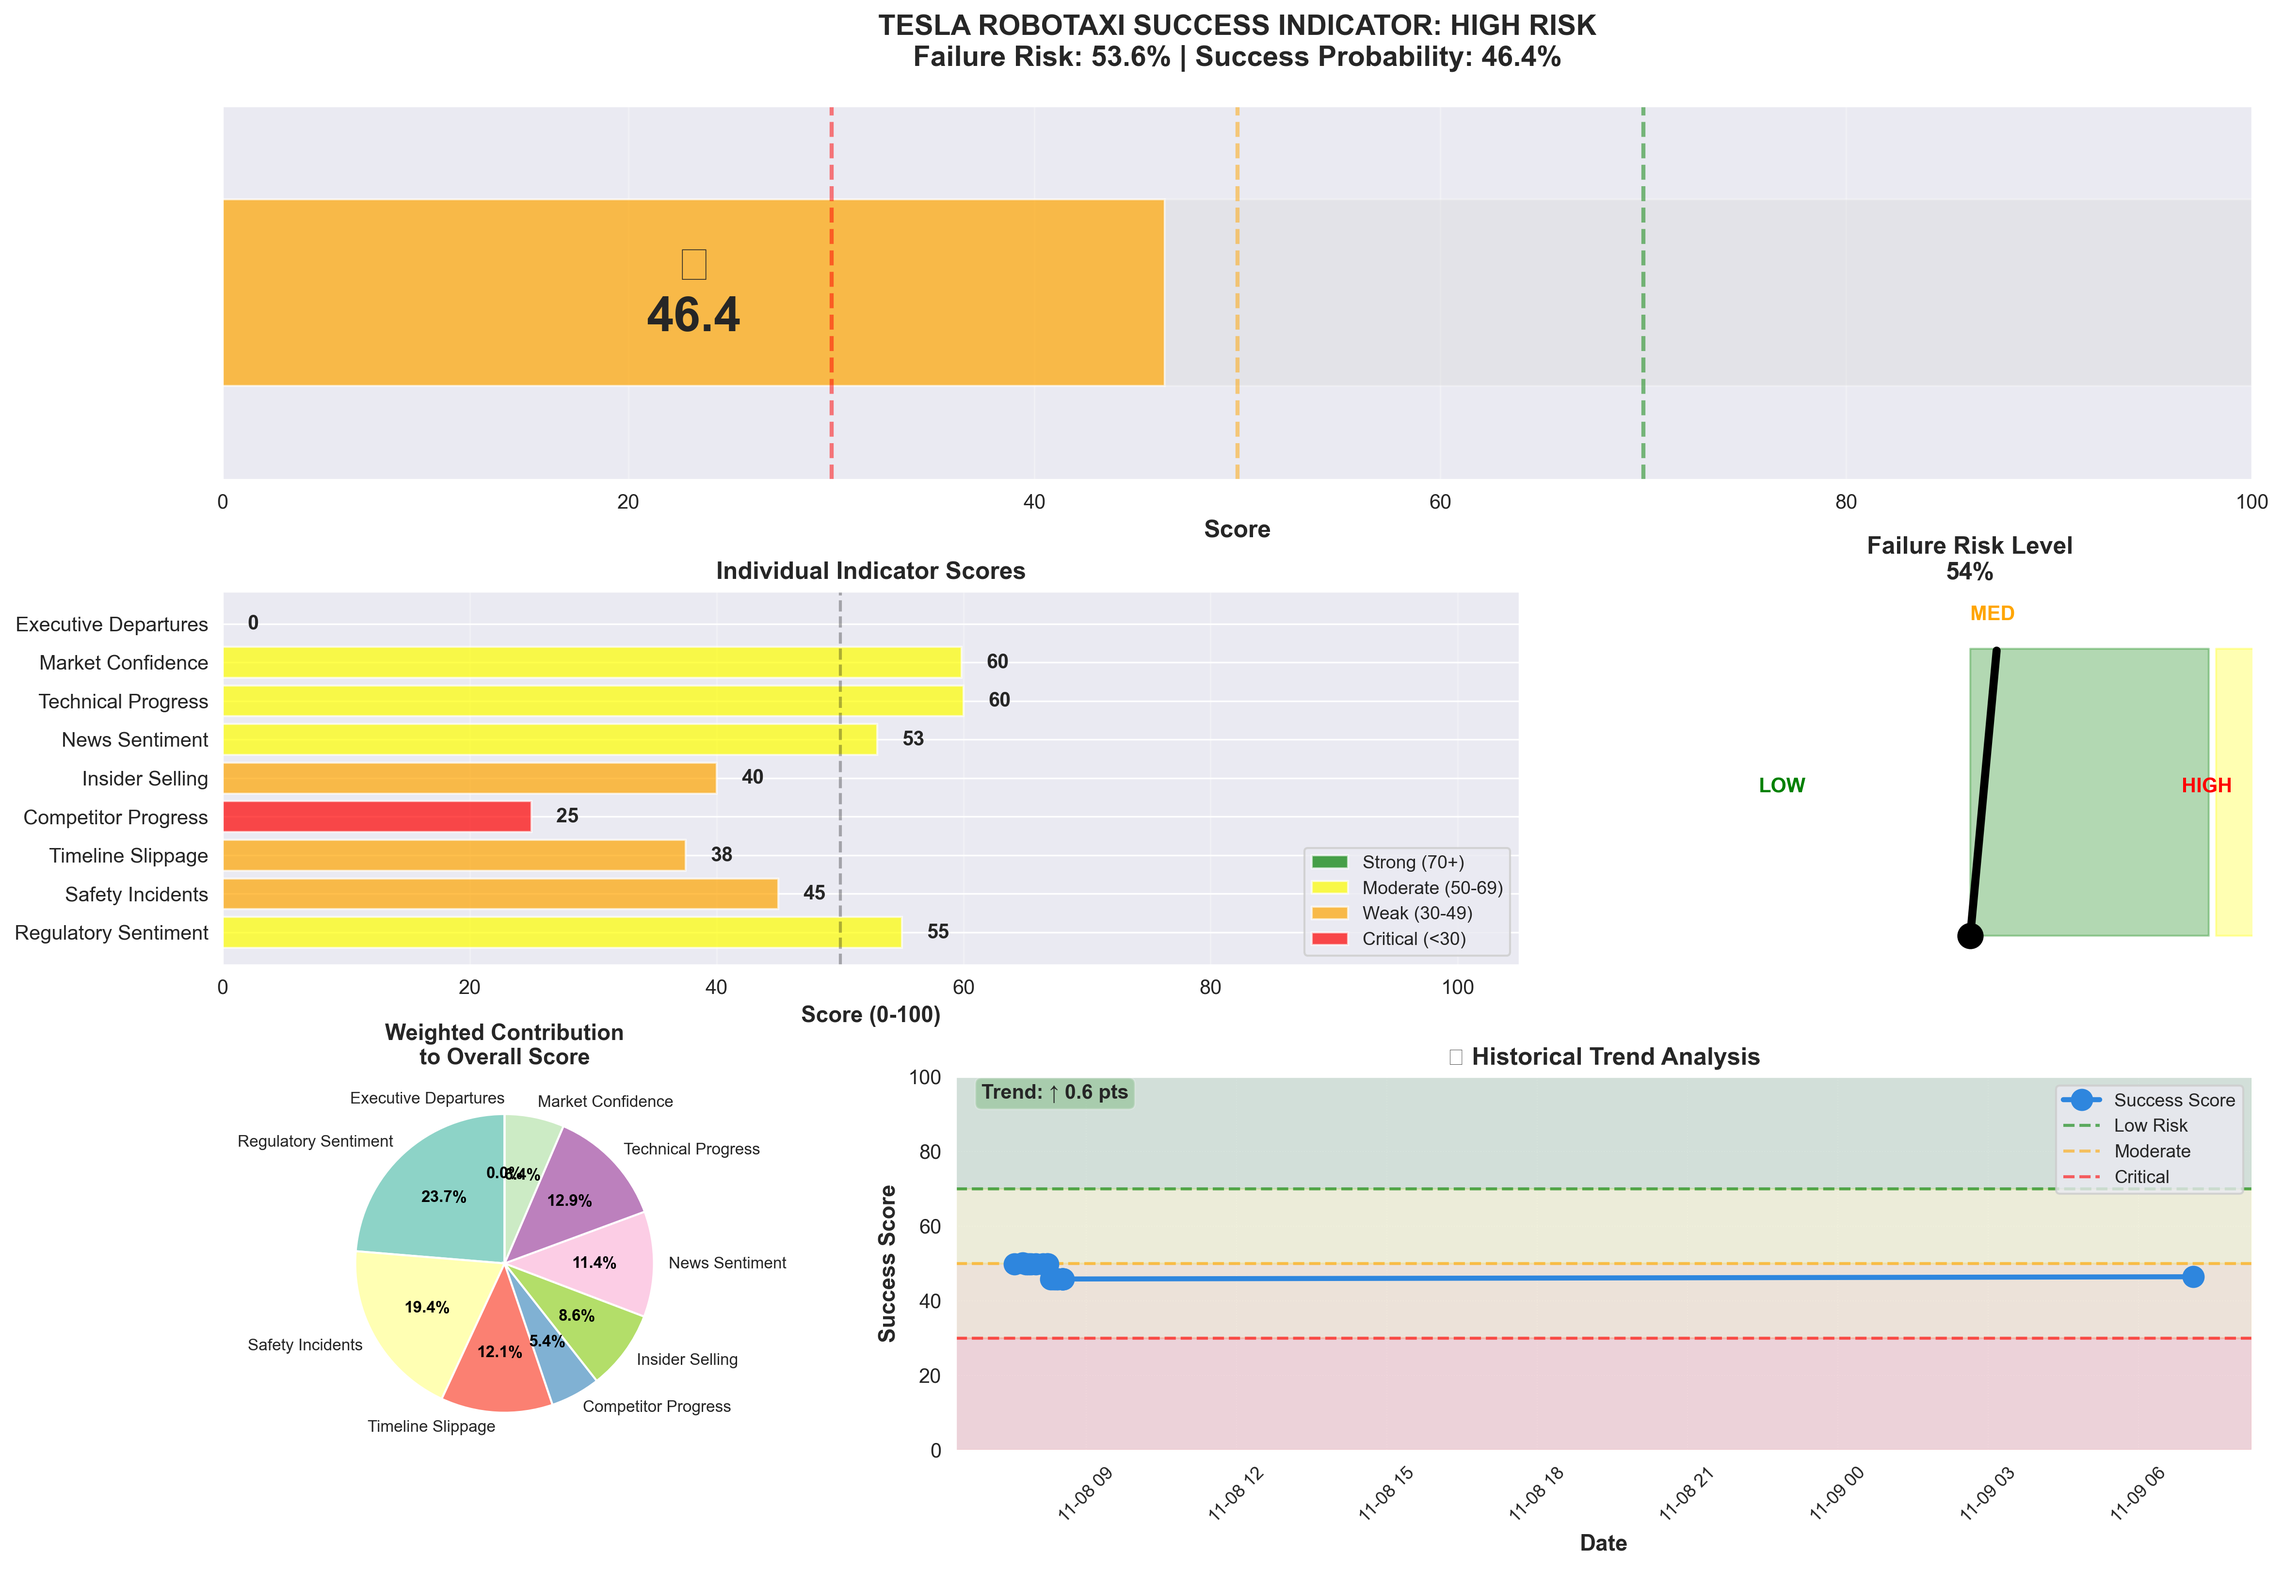
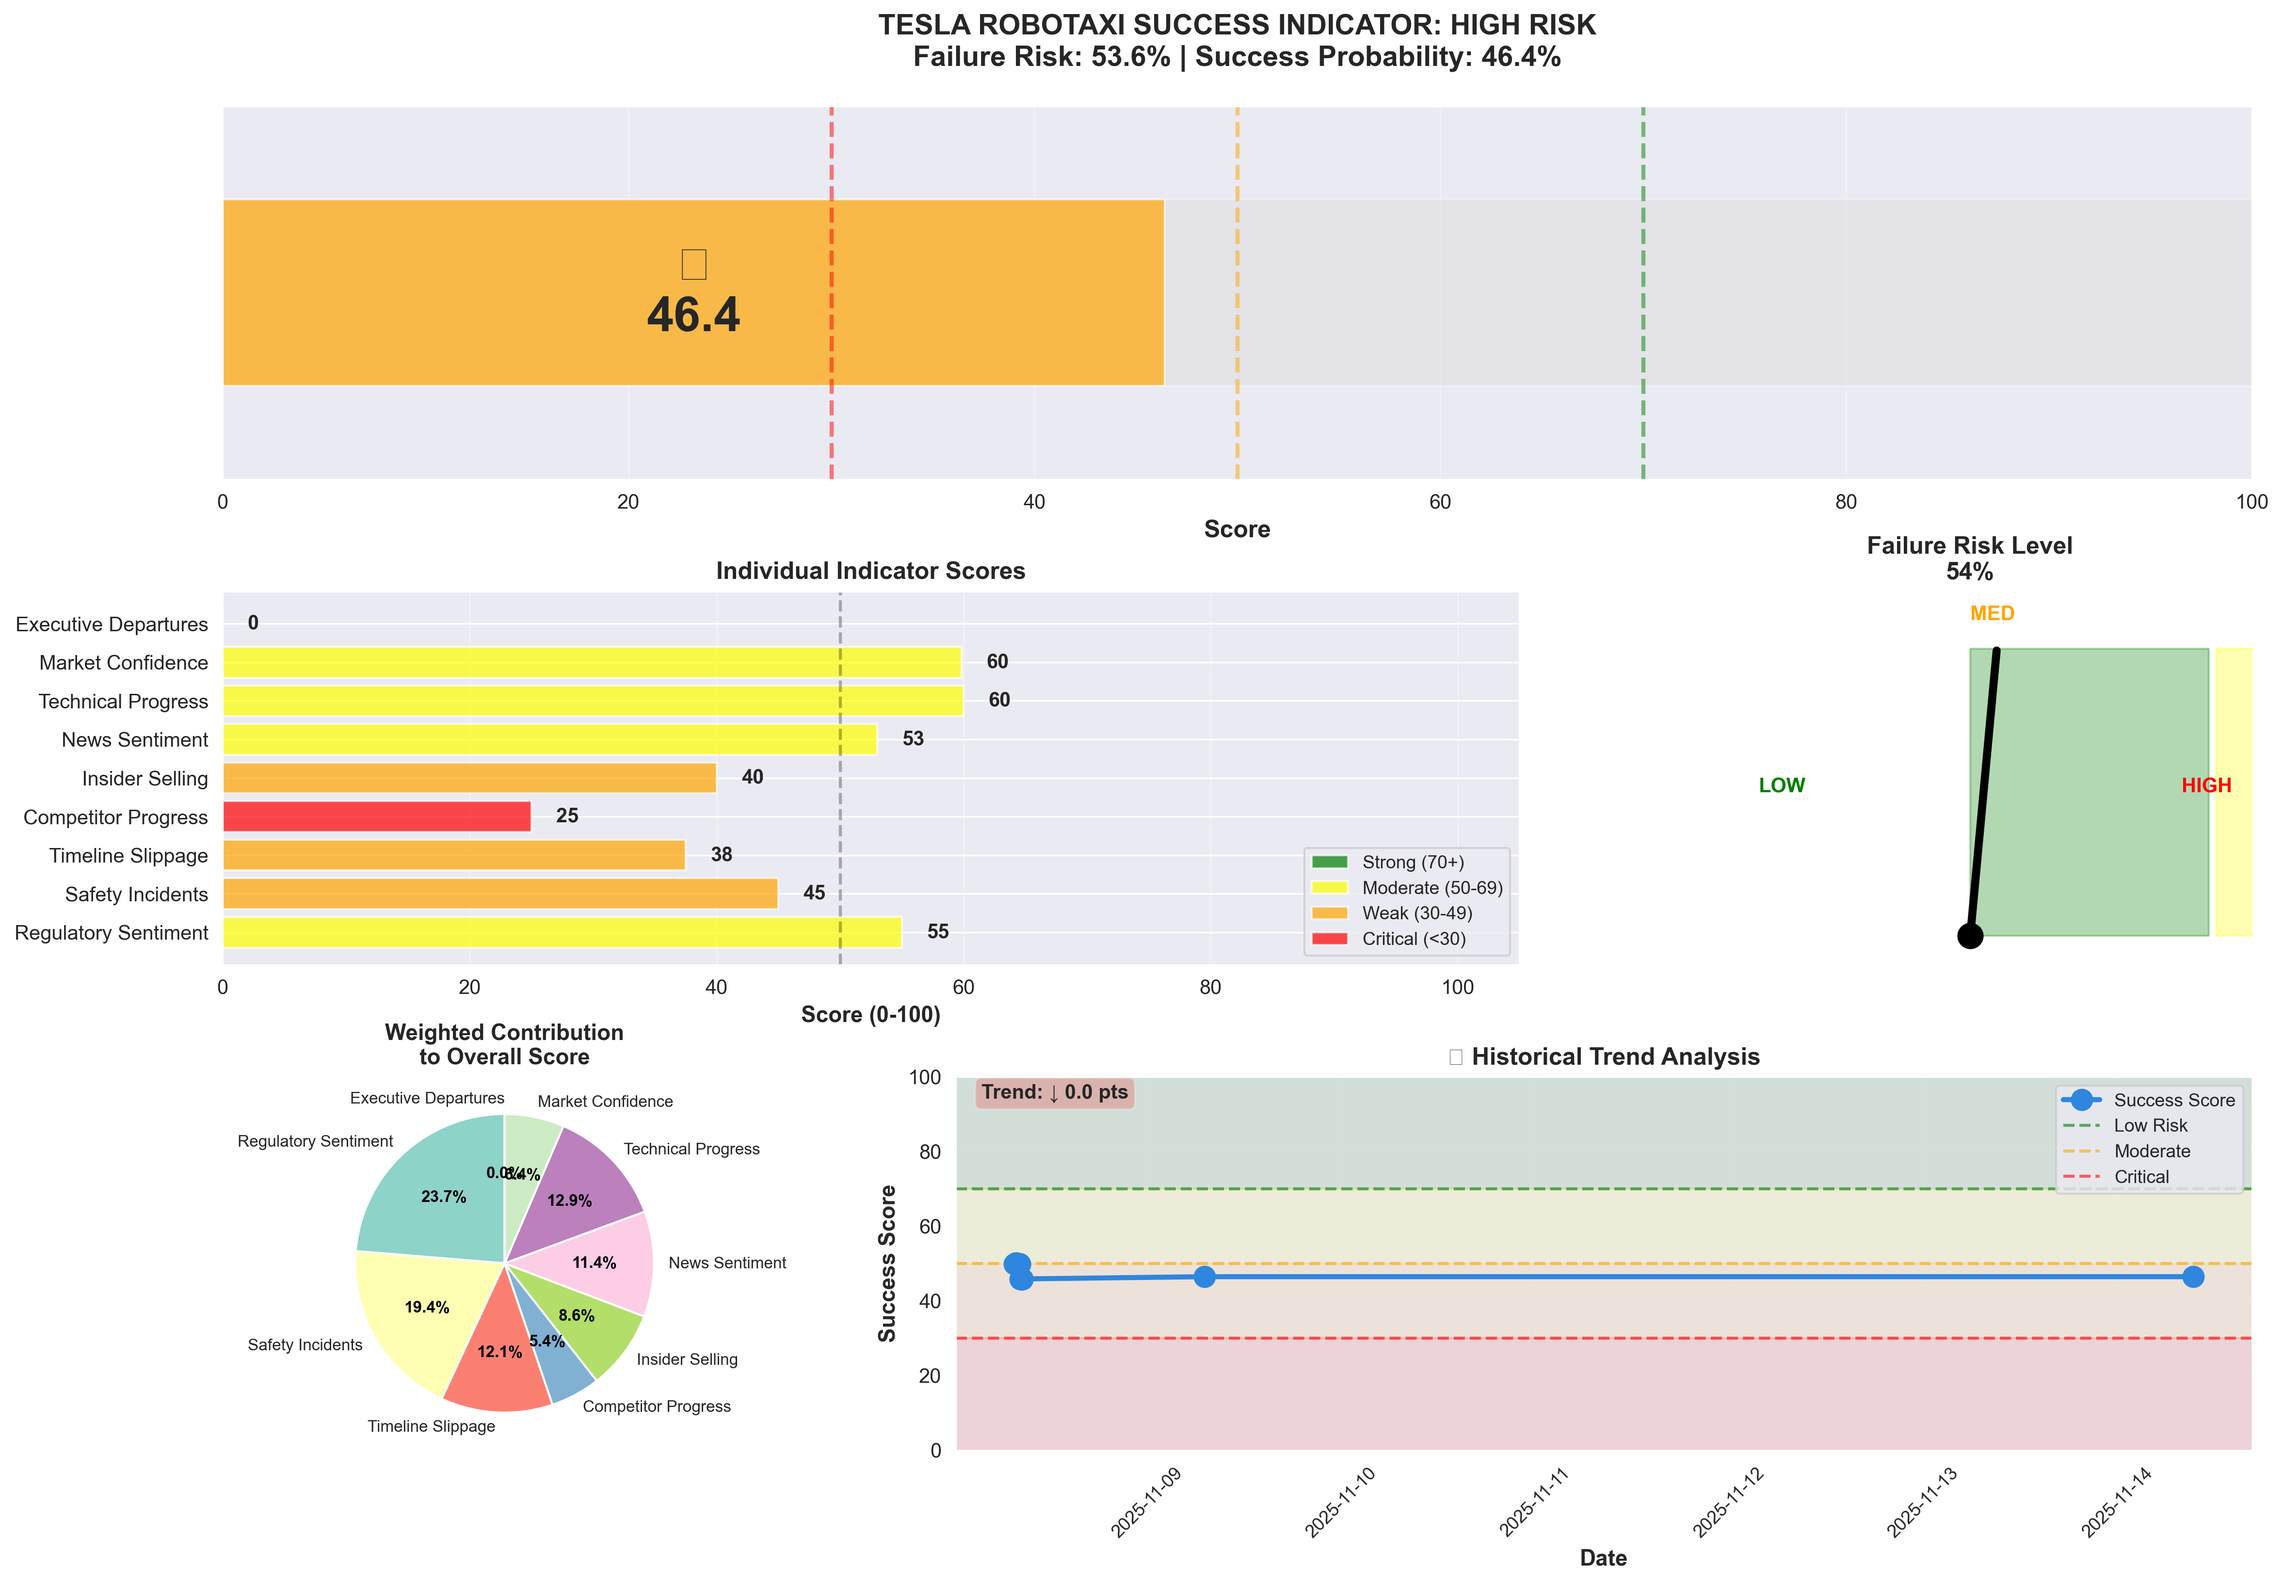
Update data and dashboards - November 14, 2025
- Failure risk: 53.6% (elevated risk)
- Success probability: 46.4%
- Fresh data from all API sources
- Updated dashboard visualizations
- 20 historical data points tracked

diff --git a/output/tesla_robotaxi_dashboard.html b/output/tesla_robotaxi_dashboard.html
@@ -409,7 +409,7 @@
         <div class="header">
             <h1>🚗 Tesla Robotaxi Monitor</h1>
             <div class="subtitle">Risk Assessment Dashboard - Powered by Real-Time Data</div>
-            <div class="timestamp">Generated: 2025-11-09 07:05:20</div>
+            <div class="timestamp">Generated: 2025-11-14 09:20:06</div>
         </div>
         
         <div class="risk-overview">
@@ -639,10 +639,10 @@
                         <pre>
         Insider Trading Analysis (REAL DATA):
         
-        • SEC Form 4 filings (last 90 days): 5
+        • SEC Form 4 filings (last 90 days): 7
         • Activity level: LOW
         • Source: SEC Edgar API
-        • Last check: 2025-11-09T07:05:18.072291
+        • Last check: 2025-11-14T09:20:04.458409
         
         BACKGROUND:
         • Elon Musk: $10B+ in stock sales (reported)
@@ -737,7 +737,7 @@
                         <pre>
         Market Confidence Indicators (REAL DATA - Finnhub):
         
-        CURRENT PRICE: $429.52 (-3.68% today)
+        CURRENT PRICE: $401.99 (-6.64% today)
         
         ANALYST RATINGS (Latest):
         • Strong Buy: 8
@@ -748,11 +748,11 @@
         • Total Analysts: 61
         
         MARKET DATA:
-        • Day High: $439.36
-        • Day Low: $421.88
-        • Market Cap: $1428505.9329033252B
-        • Beta: 1.8350618
-        • P/E Ratio: 271.1666
+        • Day High: $424.5
+        • Day Low: $396.34
+        • Market Cap: $1336946.1338040978B
+        • Beta: 1.8489681
+        • P/E Ratio: 253.7863
         • 52-Week High: $488.5399
         • 52-Week Low: $214.25
         • Short Interest: N/A%
